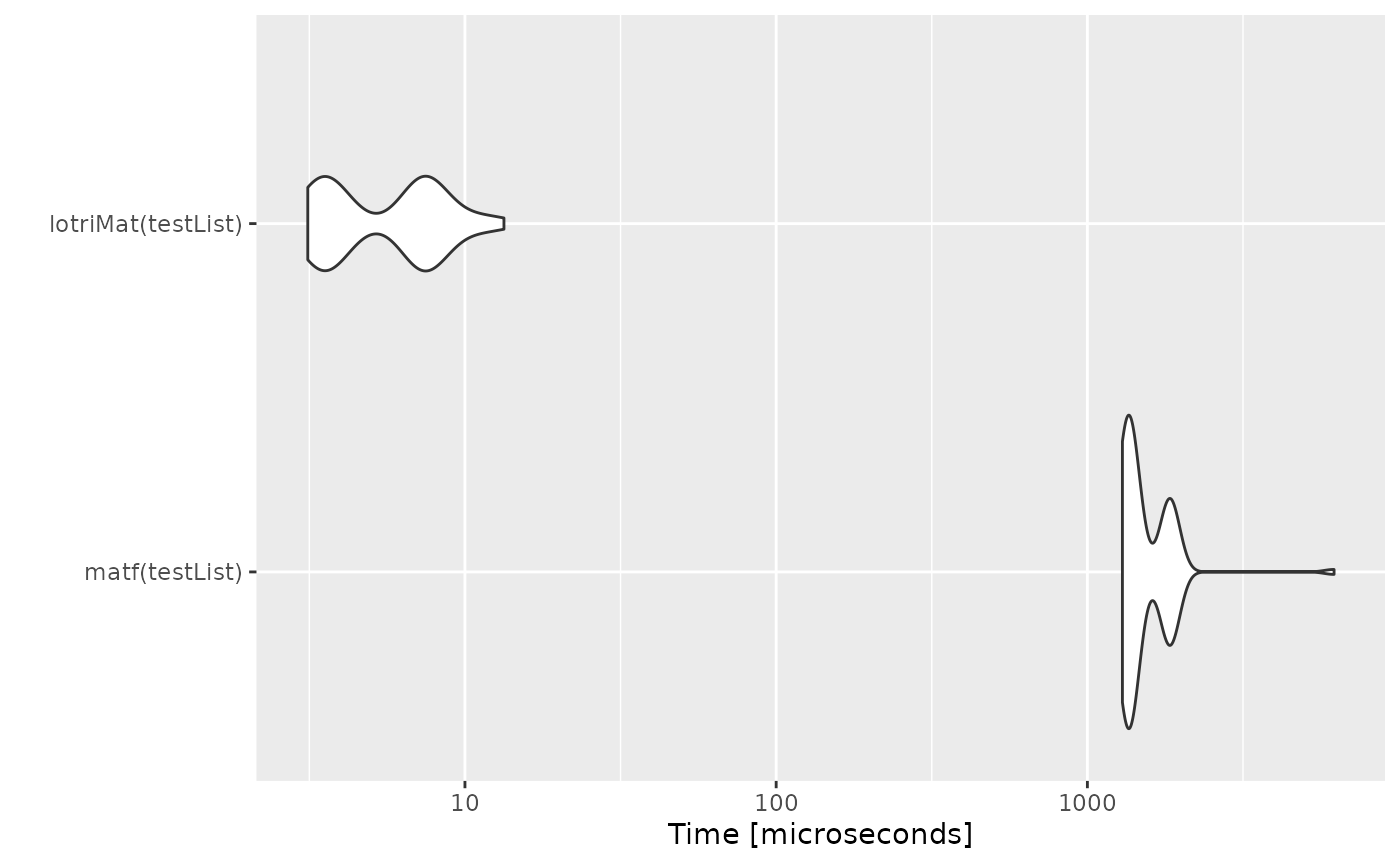
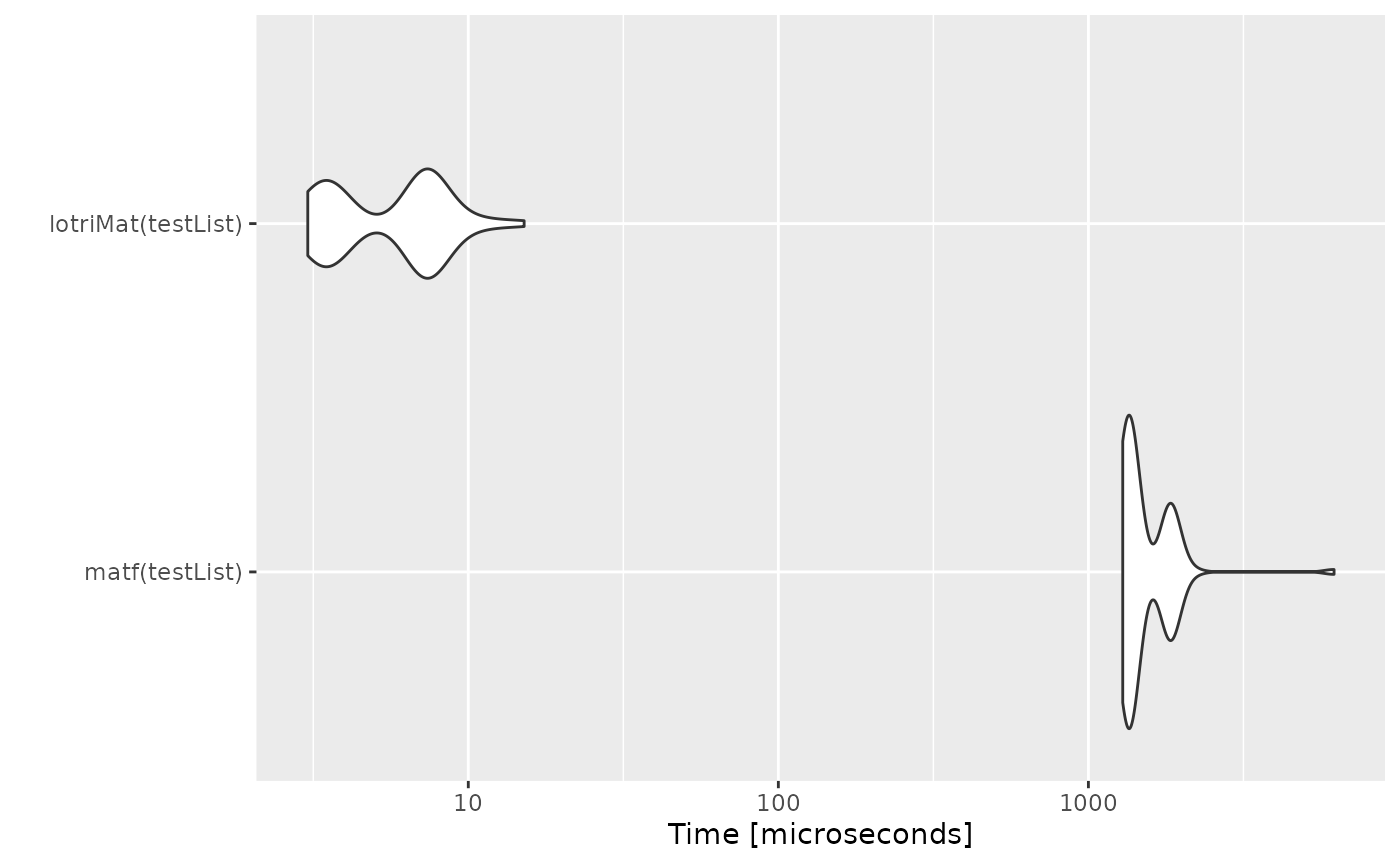
Deploying to gh-pages from @ nlmixr2/lotri@1cba25bf31ba4a812a18cd65a814273f031a9ee1 🚀

diff --git a/reference/rcm.html b/reference/rcm.html
@@ -1,0 +1,120 @@
+<!DOCTYPE html>
+<!-- Generated by pkgdown: do not edit by hand --><html lang="en"><head><meta http-equiv="Content-Type" content="text/html; charset=UTF-8"><meta charset="utf-8"><meta http-equiv="X-UA-Compatible" content="IE=edge"><meta name="viewport" content="width=device-width, initial-scale=1, shrink-to-fit=no"><title>Use the RCM algorithm to permute to banded matrix — rcm • lotri</title><!-- favicons --><link rel="icon" type="image/png" sizes="16x16" href="../favicon-16x16.png"><link rel="icon" type="image/png" sizes="32x32" href="../favicon-32x32.png"><link rel="apple-touch-icon" type="image/png" sizes="180x180" href="../apple-touch-icon.png"><link rel="apple-touch-icon" type="image/png" sizes="120x120" href="../apple-touch-icon-120x120.png"><link rel="apple-touch-icon" type="image/png" sizes="76x76" href="../apple-touch-icon-76x76.png"><link rel="apple-touch-icon" type="image/png" sizes="60x60" href="../apple-touch-icon-60x60.png"><script src="../deps/jquery-3.6.0/jquery-3.6.0.min.js"></script><meta name="viewport" content="width=device-width, initial-scale=1, shrink-to-fit=no"><link href="../deps/bootstrap-5.3.1/bootstrap.min.css" rel="stylesheet"><script src="../deps/bootstrap-5.3.1/bootstrap.bundle.min.js"></script><link href="../deps/font-awesome-6.4.2/css/all.min.css" rel="stylesheet"><link href="../deps/font-awesome-6.4.2/css/v4-shims.min.css" rel="stylesheet"><script src="../deps/headroom-0.11.0/headroom.min.js"></script><script src="../deps/headroom-0.11.0/jQuery.headroom.min.js"></script><script src="../deps/bootstrap-toc-1.0.1/bootstrap-toc.min.js"></script><script src="../deps/clipboard.js-2.0.11/clipboard.min.js"></script><script src="../deps/search-1.0.0/autocomplete.jquery.min.js"></script><script src="../deps/search-1.0.0/fuse.min.js"></script><script src="../deps/search-1.0.0/mark.min.js"></script><!-- pkgdown --><script src="../pkgdown.js"></script><meta property="og:title" content="Use the RCM algorithm to permute to banded matrix — rcm"><meta name="description" content="The RCM stands for the reverse Cuthill McKee (RCM) algorithm
+which is used to permute the matrix to a banded matrix."><meta property="og:description" content="The RCM stands for the reverse Cuthill McKee (RCM) algorithm
+which is used to permute the matrix to a banded matrix."><meta property="og:image" content="https://nlmixr2.github.io/lotri/logo.png"></head><body>
+    <a href="#main" class="visually-hidden-focusable">Skip to contents</a>
+
+
+    <nav class="navbar navbar-expand-lg fixed-top bg-primary" data-bs-theme="dark" aria-label="Site navigation"><div class="container">
+
+    <a class="navbar-brand me-2" href="../index.html">lotri</a>
+
+    <small class="nav-text text-muted me-auto" data-bs-toggle="tooltip" data-bs-placement="bottom" title="">0.5.0.9000</small>
+
+
+    <button class="navbar-toggler" type="button" data-bs-toggle="collapse" data-bs-target="#navbar" aria-controls="navbar" aria-expanded="false" aria-label="Toggle navigation">
+      <span class="navbar-toggler-icon"></span>
+    </button>
+
+    <div id="navbar" class="collapse navbar-collapse ms-3">
+      <ul class="navbar-nav me-auto"><li class="active nav-item"><a class="nav-link" href="../reference/index.html">Reference</a></li>
+<li class="nav-item dropdown">
+  <button class="nav-link dropdown-toggle" type="button" id="dropdown-articles" data-bs-toggle="dropdown" aria-expanded="false" aria-haspopup="true">Articles</button>
+  <ul class="dropdown-menu" aria-labelledby="dropdown-articles"><li><a class="dropdown-item" href="../articles/lotri-motivation.html">Lotri Motivation</a></li>
+  </ul></li>
+<li class="nav-item"><a class="nav-link" href="../news/index.html">Changelog</a></li>
+      </ul><ul class="navbar-nav"><li class="nav-item"><form class="form-inline" role="search">
+ <input class="form-control" type="search" name="search-input" id="search-input" autocomplete="off" aria-label="Search site" placeholder="Search for" data-search-index="../search.json"></form></li>
+<li class="nav-item"><a class="external-link nav-link" href="https://github.com/nlmixr2/lotri/" aria-label="GitHub"><span class="fa fab fa-github fa-lg"></span></a></li>
+      </ul></div>
+
+
+  </div>
+</nav><div class="container template-reference-topic">
+<div class="row">
+  <main id="main" class="col-md-9"><div class="page-header">
+      <img src="../logo.png" class="logo" alt=""><h1>Use the RCM algorithm to permute to banded matrix</h1>
+      <small class="dont-index">Source: <a href="https://github.com/nlmixr2/lotri/blob/main/R/rcm.R" class="external-link"><code>R/rcm.R</code></a></small>
+      <div class="d-none name"><code>rcm.Rd</code></div>
+    </div>
+
+    <div class="ref-description section level2">
+    <p>The RCM stands for the reverse Cuthill McKee (RCM) algorithm
+which is used to permute the matrix to a banded matrix.</p>
+    </div>
+
+    <div class="section level2">
+    <h2 id="ref-usage">Usage<a class="anchor" aria-label="anchor" href="#ref-usage"></a></h2>
+    <div class="sourceCode"><pre class="sourceCode r"><code><span><span class="fu">rcm</span><span class="op">(</span><span class="va">x</span><span class="op">)</span></span></code></pre></div>
+    </div>
+
+    <div class="section level2">
+    <h2 id="arguments">Arguments<a class="anchor" aria-label="anchor" href="#arguments"></a></h2>
+
+
+<dl><dt id="arg-x">x<a class="anchor" aria-label="anchor" href="#arg-x"></a></dt>
+<dd><p>A symmetric matrix</p></dd>
+
+</dl></div>
+    <div class="section level2">
+    <h2 id="value">Value<a class="anchor" aria-label="anchor" href="#value"></a></h2>
+    <p>A permuted matrix that should be banded</p>
+    </div>
+
+    <div class="section level2">
+    <h2 id="ref-examples">Examples<a class="anchor" aria-label="anchor" href="#ref-examples"></a></h2>
+    <div class="sourceCode"><pre class="sourceCode r"><code><span class="r-in"><span></span></span>
+<span class="r-in"><span><span class="va">m</span> <span class="op">&lt;-</span> <span class="fu"><a href="lotri.html">lotri</a></span><span class="op">(</span><span class="op">{</span></span></span>
+<span class="r-in"><span> <span class="va">a</span> <span class="op">+</span> <span class="va">b</span> <span class="op">+</span> <span class="va">c</span> <span class="op">+</span> <span class="va">d</span> <span class="op">+</span> <span class="va">e</span> <span class="op">+</span> <span class="va">f</span> <span class="op">+</span> <span class="va">g</span> <span class="op">+</span> <span class="va">h</span> <span class="op">+</span> <span class="va">i</span> <span class="op">+</span> <span class="va">j</span> <span class="op">+</span> <span class="va">k</span> <span class="op">+</span> <span class="va">l</span> <span class="op">+</span> <span class="va">m</span> <span class="op">+</span> <span class="va">n</span> <span class="op">+</span> <span class="va">o</span> <span class="op">+</span></span></span>
+<span class="r-in"><span> <span class="va">p</span> <span class="op">~</span> <span class="fu"><a href="https://rdrr.io/r/base/c.html" class="external-link">c</a></span><span class="op">(</span><span class="fl">0.4</span>, <span class="fl">0</span>, <span class="fl">0.3</span>, <span class="fl">0</span>, <span class="fl">0</span>, <span class="fl">0</span>, <span class="op">-</span><span class="fl">0.1</span>, <span class="fl">0</span>, <span class="fl">0</span>, <span class="fl">0.2</span>, <span class="fl">0</span>, <span class="fl">0</span>, <span class="fl">0</span>,</span></span>
+<span class="r-in"><span>       <span class="fl">0</span>, <span class="fl">0.5</span>, <span class="fl">0</span>, <span class="fl">0</span>, <span class="fl">0</span>, <span class="fl">0</span>, <span class="fl">0</span>, <span class="fl">1.3</span>, <span class="fl">0</span>, <span class="fl">0</span>, <span class="fl">0</span>, <span class="fl">0</span>, <span class="fl">0</span>, <span class="op">-</span><span class="fl">0.6</span>, <span class="fl">0.8</span>,</span></span>
+<span class="r-in"><span>       <span class="fl">0</span>, <span class="fl">0</span>, <span class="fl">0</span>, <span class="fl">0</span>, <span class="fl">0</span>, <span class="fl">0</span>, <span class="fl">0</span>, <span class="fl">0</span>, <span class="fl">0</span>, <span class="fl">0</span>, <span class="fl">0</span>, <span class="fl">0</span>, <span class="fl">0</span>, <span class="fl">0</span>, <span class="fl">0</span>, <span class="fl">0</span>, <span class="fl">0.2</span>,</span></span>
+<span class="r-in"><span>       <span class="fl">0</span>, <span class="fl">0</span>, <span class="fl">0</span>, <span class="fl">0</span>, <span class="fl">0</span>, <span class="fl">0</span>, <span class="fl">0</span>, <span class="fl">0</span>, <span class="fl">0</span>, <span class="fl">0.9</span>, <span class="fl">0</span>, <span class="fl">0</span>, <span class="fl">0</span>, <span class="fl">0</span>, <span class="fl">0</span>, <span class="fl">0</span>, <span class="fl">0</span>,</span></span>
+<span class="r-in"><span>       <span class="fl">0</span>, <span class="fl">0</span>, <span class="fl">0</span>, <span class="fl">0.9</span>, <span class="fl">0</span>, <span class="fl">0</span>, <span class="fl">0</span>, <span class="fl">0</span>, <span class="fl">0</span>, <span class="fl">0</span>, <span class="fl">0</span>, <span class="fl">0</span>, <span class="fl">0</span>, <span class="op">-</span><span class="fl">0.2</span>, <span class="fl">0</span>, <span class="fl">0.3</span>,</span></span>
+<span class="r-in"><span>       <span class="fl">0</span>, <span class="fl">0</span>, <span class="fl">0</span>, <span class="fl">0</span>, <span class="fl">0</span>, <span class="fl">0</span>, <span class="fl">0</span>, <span class="fl">0</span>, <span class="fl">0</span>, <span class="fl">0</span>, <span class="fl">0</span>, <span class="fl">0</span>, <span class="fl">2.1</span>, <span class="fl">0.2</span>, <span class="fl">0</span>, <span class="fl">0</span>, <span class="fl">0.2</span>,</span></span>
+<span class="r-in"><span>       <span class="fl">0</span>, <span class="fl">0</span>, <span class="fl">0</span>, <span class="fl">0</span>, <span class="fl">0</span>, <span class="fl">0</span>, <span class="fl">0</span>, <span class="fl">0</span>, <span class="fl">0</span>, <span class="fl">0.4</span>, <span class="fl">0</span>, <span class="fl">0</span>, <span class="fl">0</span>, <span class="fl">0</span>, <span class="fl">0</span>, <span class="op">-</span><span class="fl">1.1</span>,</span></span>
+<span class="r-in"><span>       <span class="fl">0.9</span>, <span class="fl">0</span>, <span class="fl">0</span>, <span class="fl">0</span>, <span class="fl">0</span>, <span class="fl">0</span>, <span class="fl">0</span>, <span class="fl">0</span>, <span class="fl">4.7</span>, <span class="fl">0</span>, <span class="fl">0</span>, <span class="fl">0</span>, <span class="fl">0</span>, <span class="fl">0</span>, <span class="fl">0</span>, <span class="fl">0</span>, <span class="fl">0</span>,</span></span>
+<span class="r-in"><span>       <span class="fl">0</span>, <span class="fl">0.5</span>, <span class="fl">0</span>, <span class="fl">0.2</span>, <span class="fl">0</span>, <span class="fl">0</span>, <span class="fl">0</span>, <span class="fl">1.9</span><span class="op">)</span></span></span>
+<span class="r-in"><span><span class="op">}</span><span class="op">)</span></span></span>
+<span class="r-in"><span></span></span>
+<span class="r-in"><span><span class="fu">rcm</span><span class="op">(</span><span class="va">m</span><span class="op">)</span></span></span>
+<span class="r-out co"><span class="r-pr">#&gt;</span>     p    l    j    o    g    f   n    d    a   m   k   i   e   b h c</span>
+<span class="r-out co"><span class="r-pr">#&gt;</span> p 1.9  0.2  0.5  0.0  0.0  0.0 0.0  0.0  0.0 0.0 0.0 0.0 0.0 0.0 0 0</span>
+<span class="r-out co"><span class="r-pr">#&gt;</span> l 0.2  0.3 -0.2  0.0  0.0  0.0 0.0  0.0  0.0 0.0 0.0 0.0 0.0 0.0 0 0</span>
+<span class="r-out co"><span class="r-pr">#&gt;</span> j 0.5 -0.2  0.9  0.0  0.0  0.0 0.0  0.0  0.0 0.0 0.0 0.0 0.0 0.0 0 0</span>
+<span class="r-out co"><span class="r-pr">#&gt;</span> o 0.0  0.0  0.0  4.7  0.9 -1.1 0.0  0.0  0.0 0.0 0.0 0.0 0.0 0.0 0 0</span>
+<span class="r-out co"><span class="r-pr">#&gt;</span> g 0.0  0.0  0.0  0.9  0.8 -0.6 0.0  0.0  0.0 0.0 0.0 0.0 0.0 0.0 0 0</span>
+<span class="r-out co"><span class="r-pr">#&gt;</span> f 0.0  0.0  0.0 -1.1 -0.6  1.3 0.0  0.0  0.0 0.0 0.0 0.0 0.0 0.0 0 0</span>
+<span class="r-out co"><span class="r-pr">#&gt;</span> n 0.0  0.0  0.0  0.0  0.0  0.0 0.4  0.2  0.2 0.0 0.0 0.0 0.0 0.0 0 0</span>
+<span class="r-out co"><span class="r-pr">#&gt;</span> d 0.0  0.0  0.0  0.0  0.0  0.0 0.2  0.2 -0.1 0.0 0.0 0.0 0.0 0.0 0 0</span>
+<span class="r-out co"><span class="r-pr">#&gt;</span> a 0.0  0.0  0.0  0.0  0.0  0.0 0.2 -0.1  0.4 0.0 0.0 0.0 0.0 0.0 0 0</span>
+<span class="r-out co"><span class="r-pr">#&gt;</span> m 0.0  0.0  0.0  0.0  0.0  0.0 0.0  0.0  0.0 2.1 0.0 0.0 0.0 0.0 0 0</span>
+<span class="r-out co"><span class="r-pr">#&gt;</span> k 0.0  0.0  0.0  0.0  0.0  0.0 0.0  0.0  0.0 0.0 0.9 0.0 0.0 0.0 0 0</span>
+<span class="r-out co"><span class="r-pr">#&gt;</span> i 0.0  0.0  0.0  0.0  0.0  0.0 0.0  0.0  0.0 0.0 0.0 0.2 0.0 0.0 0 0</span>
+<span class="r-out co"><span class="r-pr">#&gt;</span> e 0.0  0.0  0.0  0.0  0.0  0.0 0.0  0.0  0.0 0.0 0.0 0.0 0.5 0.0 0 0</span>
+<span class="r-out co"><span class="r-pr">#&gt;</span> b 0.0  0.0  0.0  0.0  0.0  0.0 0.0  0.0  0.0 0.0 0.0 0.0 0.0 0.3 0 0</span>
+<span class="r-out co"><span class="r-pr">#&gt;</span> h 0.0  0.0  0.0  0.0  0.0  0.0 0.0  0.0  0.0 0.0 0.0 0.0 0.0 0.0 0 0</span>
+<span class="r-out co"><span class="r-pr">#&gt;</span> c 0.0  0.0  0.0  0.0  0.0  0.0 0.0  0.0  0.0 0.0 0.0 0.0 0.0 0.0 0 0</span>
+<span class="r-in"><span></span></span>
+</code></pre></div>
+    </div>
+  </main><aside class="col-md-3"><nav id="toc" aria-label="Table of contents"><h2>On this page</h2>
+    </nav></aside></div>
+
+
+    <footer><div class="pkgdown-footer-left">
+  <p>Developed by Matthew L. Fidler.</p>
+</div>
+
+<div class="pkgdown-footer-right">
+  <p>Site built with <a href="https://pkgdown.r-lib.org/" class="external-link">pkgdown</a> 2.1.0.</p>
+</div>
+
+    </footer></div>
+
+
+
+
+
+  </body></html>
+

diff --git a/reference/dot-lotriPointers.html b/reference/dot-lotriPointers.html
@@ -59,25 +59,28 @@
     <div class="sourceCode"><pre class="sourceCode r"><code><span class="r-in"><span></span></span>
 <span class="r-in"><span><span class="fu">.lotriPointers</span><span class="op">(</span><span class="op">)</span></span></span>
 <span class="r-out co"><span class="r-pr">#&gt;</span> $lotriLstToMat</span>
-<span class="r-out co"><span class="r-pr">#&gt;</span> &lt;pointer: 0x7f563c691800&gt;</span>
+<span class="r-out co"><span class="r-pr">#&gt;</span> &lt;pointer: 0x7eff41dbdaa0&gt;</span>
 <span class="r-out co"><span class="r-pr">#&gt;</span> </span>
 <span class="r-out co"><span class="r-pr">#&gt;</span> $asLotriMat</span>
-<span class="r-out co"><span class="r-pr">#&gt;</span> &lt;pointer: 0x7f563c68fa70&gt;</span>
+<span class="r-out co"><span class="r-pr">#&gt;</span> &lt;pointer: 0x7eff41dbbd10&gt;</span>
 <span class="r-out co"><span class="r-pr">#&gt;</span> </span>
 <span class="r-out co"><span class="r-pr">#&gt;</span> $lotriSep</span>
-<span class="r-out co"><span class="r-pr">#&gt;</span> &lt;pointer: 0x7f563c693800&gt;</span>
+<span class="r-out co"><span class="r-pr">#&gt;</span> &lt;pointer: 0x7eff41dbfaa0&gt;</span>
 <span class="r-out co"><span class="r-pr">#&gt;</span> </span>
 <span class="r-out co"><span class="r-pr">#&gt;</span> $lotriAllNames</span>
-<span class="r-out co"><span class="r-pr">#&gt;</span> &lt;pointer: 0x7f563c693dd0&gt;</span>
+<span class="r-out co"><span class="r-pr">#&gt;</span> &lt;pointer: 0x7eff41dc0070&gt;</span>
 <span class="r-out co"><span class="r-pr">#&gt;</span> </span>
 <span class="r-out co"><span class="r-pr">#&gt;</span> $lotriGetBounds</span>
-<span class="r-out co"><span class="r-pr">#&gt;</span> &lt;pointer: 0x7f563c690010&gt;</span>
+<span class="r-out co"><span class="r-pr">#&gt;</span> &lt;pointer: 0x7eff41dbc2b0&gt;</span>
 <span class="r-out co"><span class="r-pr">#&gt;</span> </span>
 <span class="r-out co"><span class="r-pr">#&gt;</span> $lotriMaxNu</span>
-<span class="r-out co"><span class="r-pr">#&gt;</span> &lt;pointer: 0x7f563c6932d0&gt;</span>
+<span class="r-out co"><span class="r-pr">#&gt;</span> &lt;pointer: 0x7eff41dbf570&gt;</span>
 <span class="r-out co"><span class="r-pr">#&gt;</span> </span>
 <span class="r-out co"><span class="r-pr">#&gt;</span> $isLotri</span>
-<span class="r-out co"><span class="r-pr">#&gt;</span> &lt;pointer: 0x7f563c693cb0&gt;</span>
+<span class="r-out co"><span class="r-pr">#&gt;</span> &lt;pointer: 0x7eff41dbff50&gt;</span>
+<span class="r-out co"><span class="r-pr">#&gt;</span> </span>
+<span class="r-out co"><span class="r-pr">#&gt;</span> $lotriRcm</span>
+<span class="r-out co"><span class="r-pr">#&gt;</span> &lt;pointer: 0x7eff41dc09d0&gt;</span>
 <span class="r-out co"><span class="r-pr">#&gt;</span> </span>
 </code></pre></div>
     </div>

diff --git a/articles/lotri-motivation.html b/articles/lotri-motivation.html
@@ -228,9 +228,9 @@ concatenation with <code>lotriMat</code></p>
 <span></span>
 <span><span class="fu"><a href="https://rdrr.io/r/base/print.html" class="external-link">print</a></span><span class="op">(</span><span class="va">mb</span><span class="op">)</span></span>
 <span><span class="co">#&gt; Unit: microseconds</span></span>
-<span><span class="co">#&gt;                expr      min       lq       mean    median        uq      max</span></span>
-<span><span class="co">#&gt;      matf(testList) 1295.896 1339.312 1553.70246 1391.5790 1824.6815 6203.764</span></span>
-<span><span class="co">#&gt;  lotriMat(testList)    3.126    3.537    5.97657    6.6925    7.6445   13.345</span></span>
+<span><span class="co">#&gt;                expr      min       lq       mean   median       uq      max</span></span>
+<span><span class="co">#&gt;      matf(testList) 1290.528 1338.147 1553.28356 1377.746 1815.463 6199.499</span></span>
+<span><span class="co">#&gt;  lotriMat(testList)    3.036    3.622    6.01665    6.888    7.499   15.139</span></span>
 <span><span class="co">#&gt;  neval</span></span>
 <span><span class="co">#&gt;    100</span></span>
 <span><span class="co">#&gt;    100</span></span>

diff --git a/reference/index.html b/reference/index.html
@@ -87,6 +87,12 @@
 
         </dt>
         <dd>Separate a lotri matrix into above and below lotri matrices</dd>
+      </dl><dl><dt>
+
+          <code><a href="rcm.html">rcm()</a></code>
+
+        </dt>
+        <dd>Use the RCM algorithm to permute to banded matrix</dd>
       </dl></div>
   </main></div>
 
